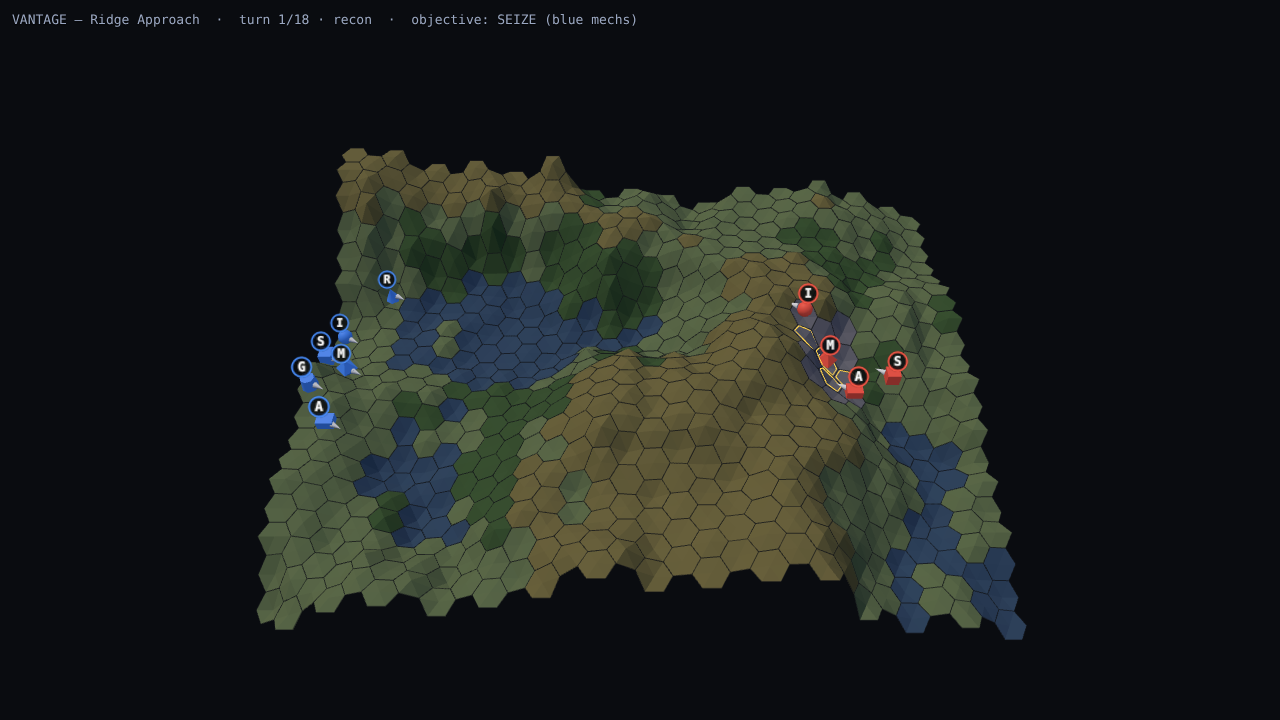
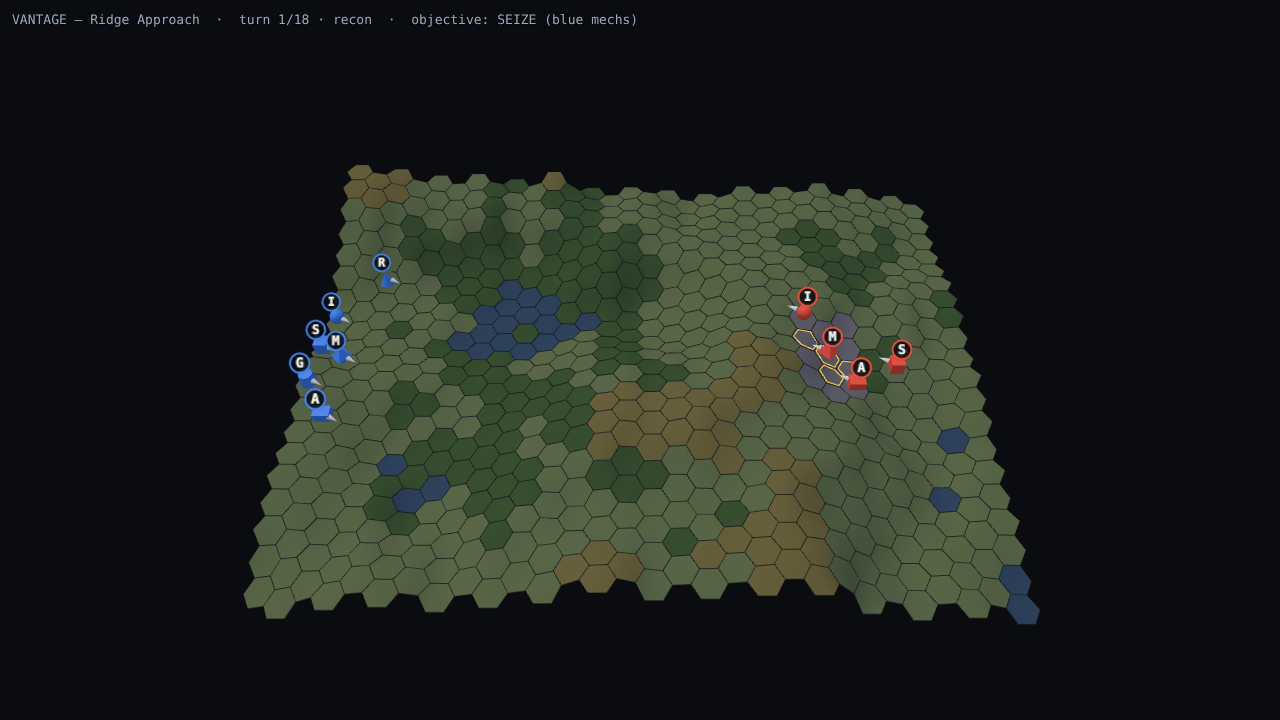
Slice 1: smooth-shade the heightmap, gentle rolling relief
The board read as harsh, faceted mountains: per-hex flat shading turned every
height step into a hard facet, and the relief amplitude/contrast were too high.

- Smooth shading: compute per-vertex normals averaged across coincident corners
  (forced upward) so the terrain renders as a continuous rolling surface, not
  facets. Fixed the triangle winding (center→b→a) so top faces are genuinely
  front-facing/upward — no more relying on DoubleSide normal flips (which had
  re-darkened the surface).
- Gentler terrain: amplitude 6.0→4.4, contrast 1.9→1.4, hill threshold raised —
  rolling hills instead of spikes.

Terrain now reads as a soft, natural heightmap. docs/shots/slice1-board.png
updated. 17 tests pass, typecheck + build clean.

https://claude.ai/code/session_01X7dpxBRPmMFBPC2nLZAfX8

Changed region(s): [[0.1875, 0.2139, 0.8125, 0.8861]]

diff --git a/src/render/board.ts b/src/render/board.ts
@@ -10,7 +10,7 @@ import type { UnitClass } from "../data/types";
 // grid overlay, the objective zone, and programmer-art unit markers that show
 // side, class and facing. Pure read of state → a THREE.Group.
 
-const ELEV = 1.35; // world height per elevation unit
+const ELEV = 1.2; // world height per elevation unit
 const LIFT = 0.03; // grid/zone offset above the surface to avoid z-fighting
 const SIDE_COLOR: Record<string, number> = { blue: 0x4a90ff, red: 0xff5a4a };
 
@@ -32,6 +32,38 @@ export interface Board {
   group: THREE.Group;
   min: THREE.Vector3;
   max: THREE.Vector3;
+}
+
+/** Per-vertex normals averaged over vertices sharing an XZ position (the surface
+ *  is a heightfield), forced upward so the lit face is always the top. This
+ *  smooths the seams between hexes into a continuous rolling surface. */
+function smoothNormals(positions: number[]): number[] {
+  const acc = new Map<string, [number, number, number]>();
+  const key = (x: number, z: number) => `${Math.round(x * 1000)},${Math.round(z * 1000)}`;
+  for (let t = 0; t < positions.length; t += 9) {
+    const ax = positions[t], ay = positions[t + 1], az = positions[t + 2];
+    const bx = positions[t + 3], by = positions[t + 4], bz = positions[t + 5];
+    const cx = positions[t + 6], cy = positions[t + 7], cz = positions[t + 8];
+    let nx = (by - ay) * (cz - az) - (bz - az) * (cy - ay);
+    let ny = (bz - az) * (cx - ax) - (bx - ax) * (cz - az);
+    let nz = (bx - ax) * (cy - ay) - (by - ay) * (cx - ax);
+    if (ny < 0) { nx = -nx; ny = -ny; nz = -nz; } // upward
+    for (const off of [0, 3, 6]) {
+      const k = key(positions[t + off], positions[t + off + 2]);
+      const e = acc.get(k) ?? [0, 0, 0];
+      e[0] += nx; e[1] += ny; e[2] += nz;
+      acc.set(k, e);
+    }
+  }
+  const out = new Array<number>(positions.length);
+  for (let i = 0; i < positions.length; i += 3) {
+    const e = acc.get(key(positions[i], positions[i + 2]))!;
+    const len = Math.hypot(e[0], e[1], e[2]) || 1;
+    out[i] = e[0] / len;
+    out[i + 1] = e[1] / len;
+    out[i + 2] = e[2] / len;
+  }
+  return out;
 }
 
 export function buildBoard(state: GameState): Board {
@@ -79,7 +111,9 @@ export function buildBoard(state: GameState): Board {
       const az = c.z + a.z;
       const bx = c.x + b.x;
       const bz = c.z + b.z;
-      positions.push(c.x, cy, c.z, ax, cornerHeight(ax, az), az, bx, cornerHeight(bx, bz), bz);
+      // Wind center→b→a so the top face is front-facing (upward normal) to the
+      // overhead camera — keeps the lit side up without relying on DoubleSide flips.
+      positions.push(c.x, cy, c.z, bx, cornerHeight(bx, bz), bz, ax, cornerHeight(ax, az), az);
       for (let v = 0; v < 3; v++) colors.push(col.r, col.g, col.b);
       grow(ax, cornerHeight(ax, az), az);
     }
@@ -87,15 +121,16 @@ export function buildBoard(state: GameState): Board {
   const geo = new THREE.BufferGeometry();
   geo.setAttribute("position", new THREE.Float32BufferAttribute(positions, 3));
   geo.setAttribute("color", new THREE.Float32BufferAttribute(colors, 3));
-  geo.computeVertexNormals();
+  // Smooth normals shared across coincident corners → a continuous heightmap
+  // surface (rounded relief) rather than faceted per-hex flat shading.
+  geo.setAttribute("normal", new THREE.Float32BufferAttribute(smoothNormals(positions), 3));
   const surface = new THREE.Mesh(
     geo,
     new THREE.MeshStandardMaterial({
       vertexColors: true,
       roughness: 0.95,
       metalness: 0.0,
-      flatShading: true,
-      side: THREE.DoubleSide, // fan winding yields downward normals; light both faces
+      side: THREE.DoubleSide,
     }),
   );
   group.add(surface);

diff --git a/src/data/maps/map01.ts b/src/data/maps/map01.ts
@@ -53,9 +53,9 @@ function fbm(x: number, y: number, seed: number): number {
   return sum / norm; // [0,1)
 }
 
-const ELEV_AMP = 6.0; // peak elevation units
+const ELEV_AMP = 4.4; // peak elevation units — gentle rolling hills, not mountains
 const NOISE_SCALE = 0.15; // lower = broader, smoother landforms
-const CONTRAST = 1.9; // push fBm toward extremes → real hills & valleys, not mush
+const CONTRAST = 1.4; // mild push toward highs/lows; too high reads as harsh peaks
 
 /** fBm with contrast → a 0..1 landform value with pronounced highs and lows. */
 function landform(col: number, row: number): number {
@@ -79,8 +79,8 @@ function terrainAt(col: number, row: number): string {
   if (isObjectiveArea(col, row)) return "urban";
   const hi = landform(col, row);
   if (isDeployWest(col)) return hi > 0.78 ? "hill" : "open";
-  if (hi < 0.13) return "water"; // deepest basins flood (kept modest so land routes remain)
-  if (hi > 0.66) return "hill"; // ridgelines and peaks
+  if (hi < 0.14) return "water"; // deepest basins flood (kept modest so land routes remain)
+  if (hi > 0.78) return "hill"; // only the highest crests read as hillside
   const forest = fbm(col * 0.22 + 50, row * 0.22 + 50, MAP_SEED ^ 0x1234);
   if (forest > 0.6) return "woods"; // forest stands cluster naturally
   return "open";